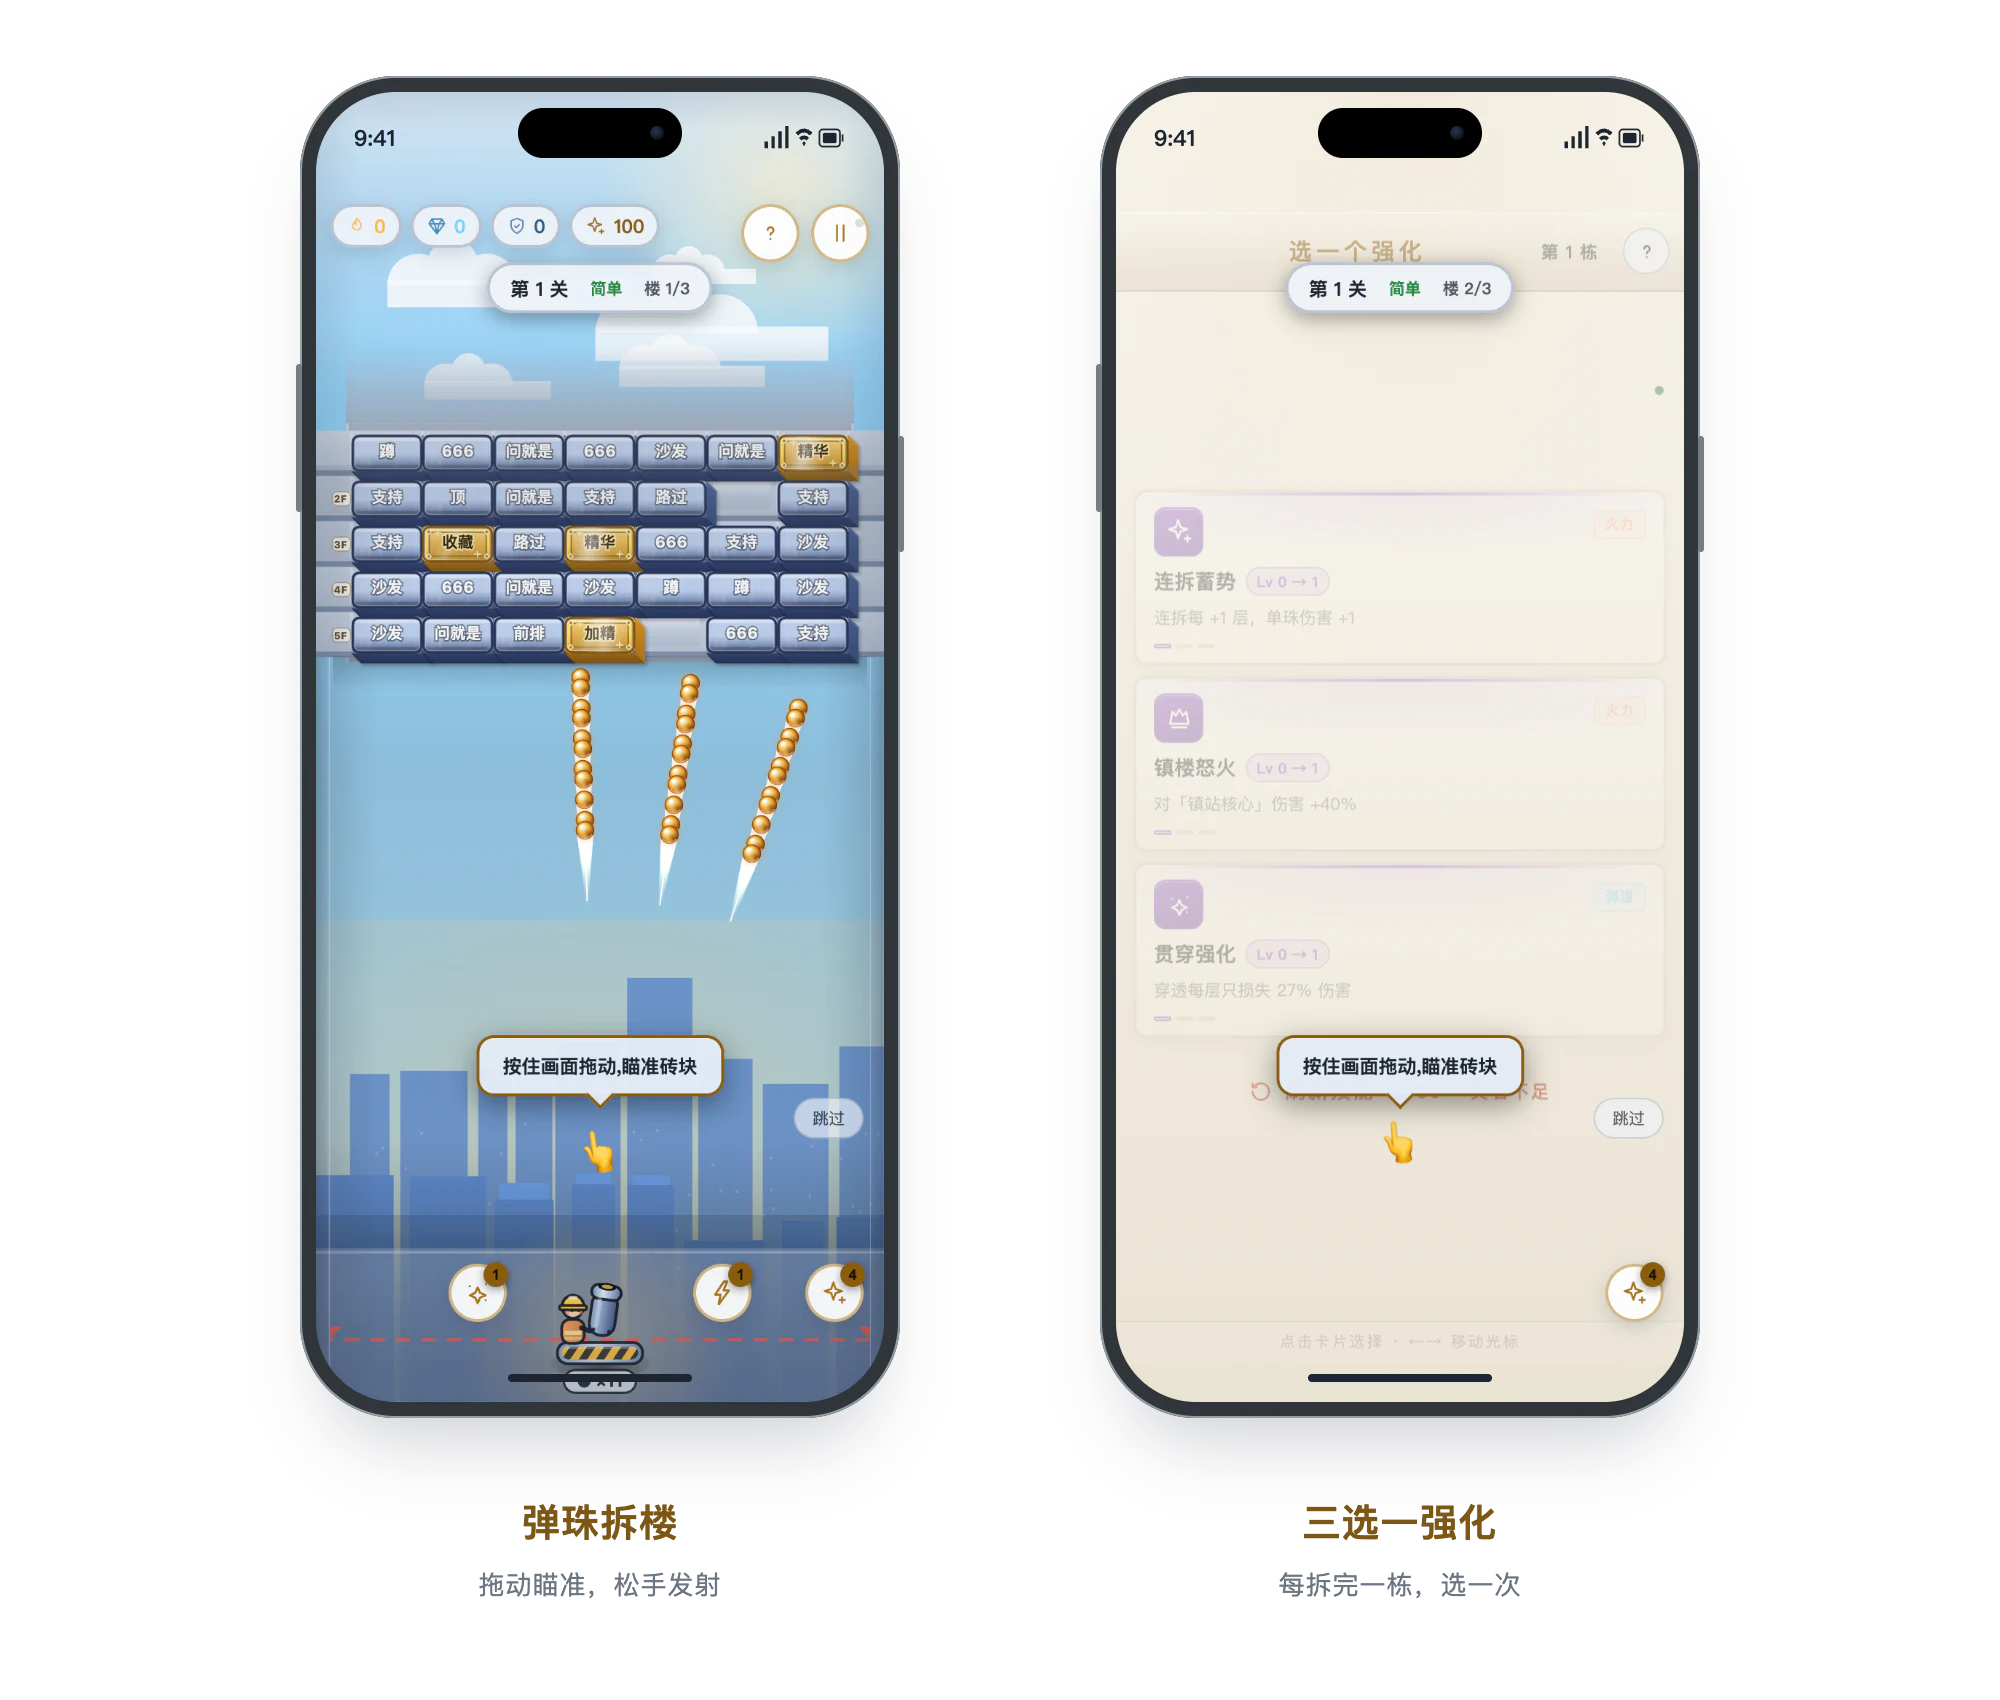
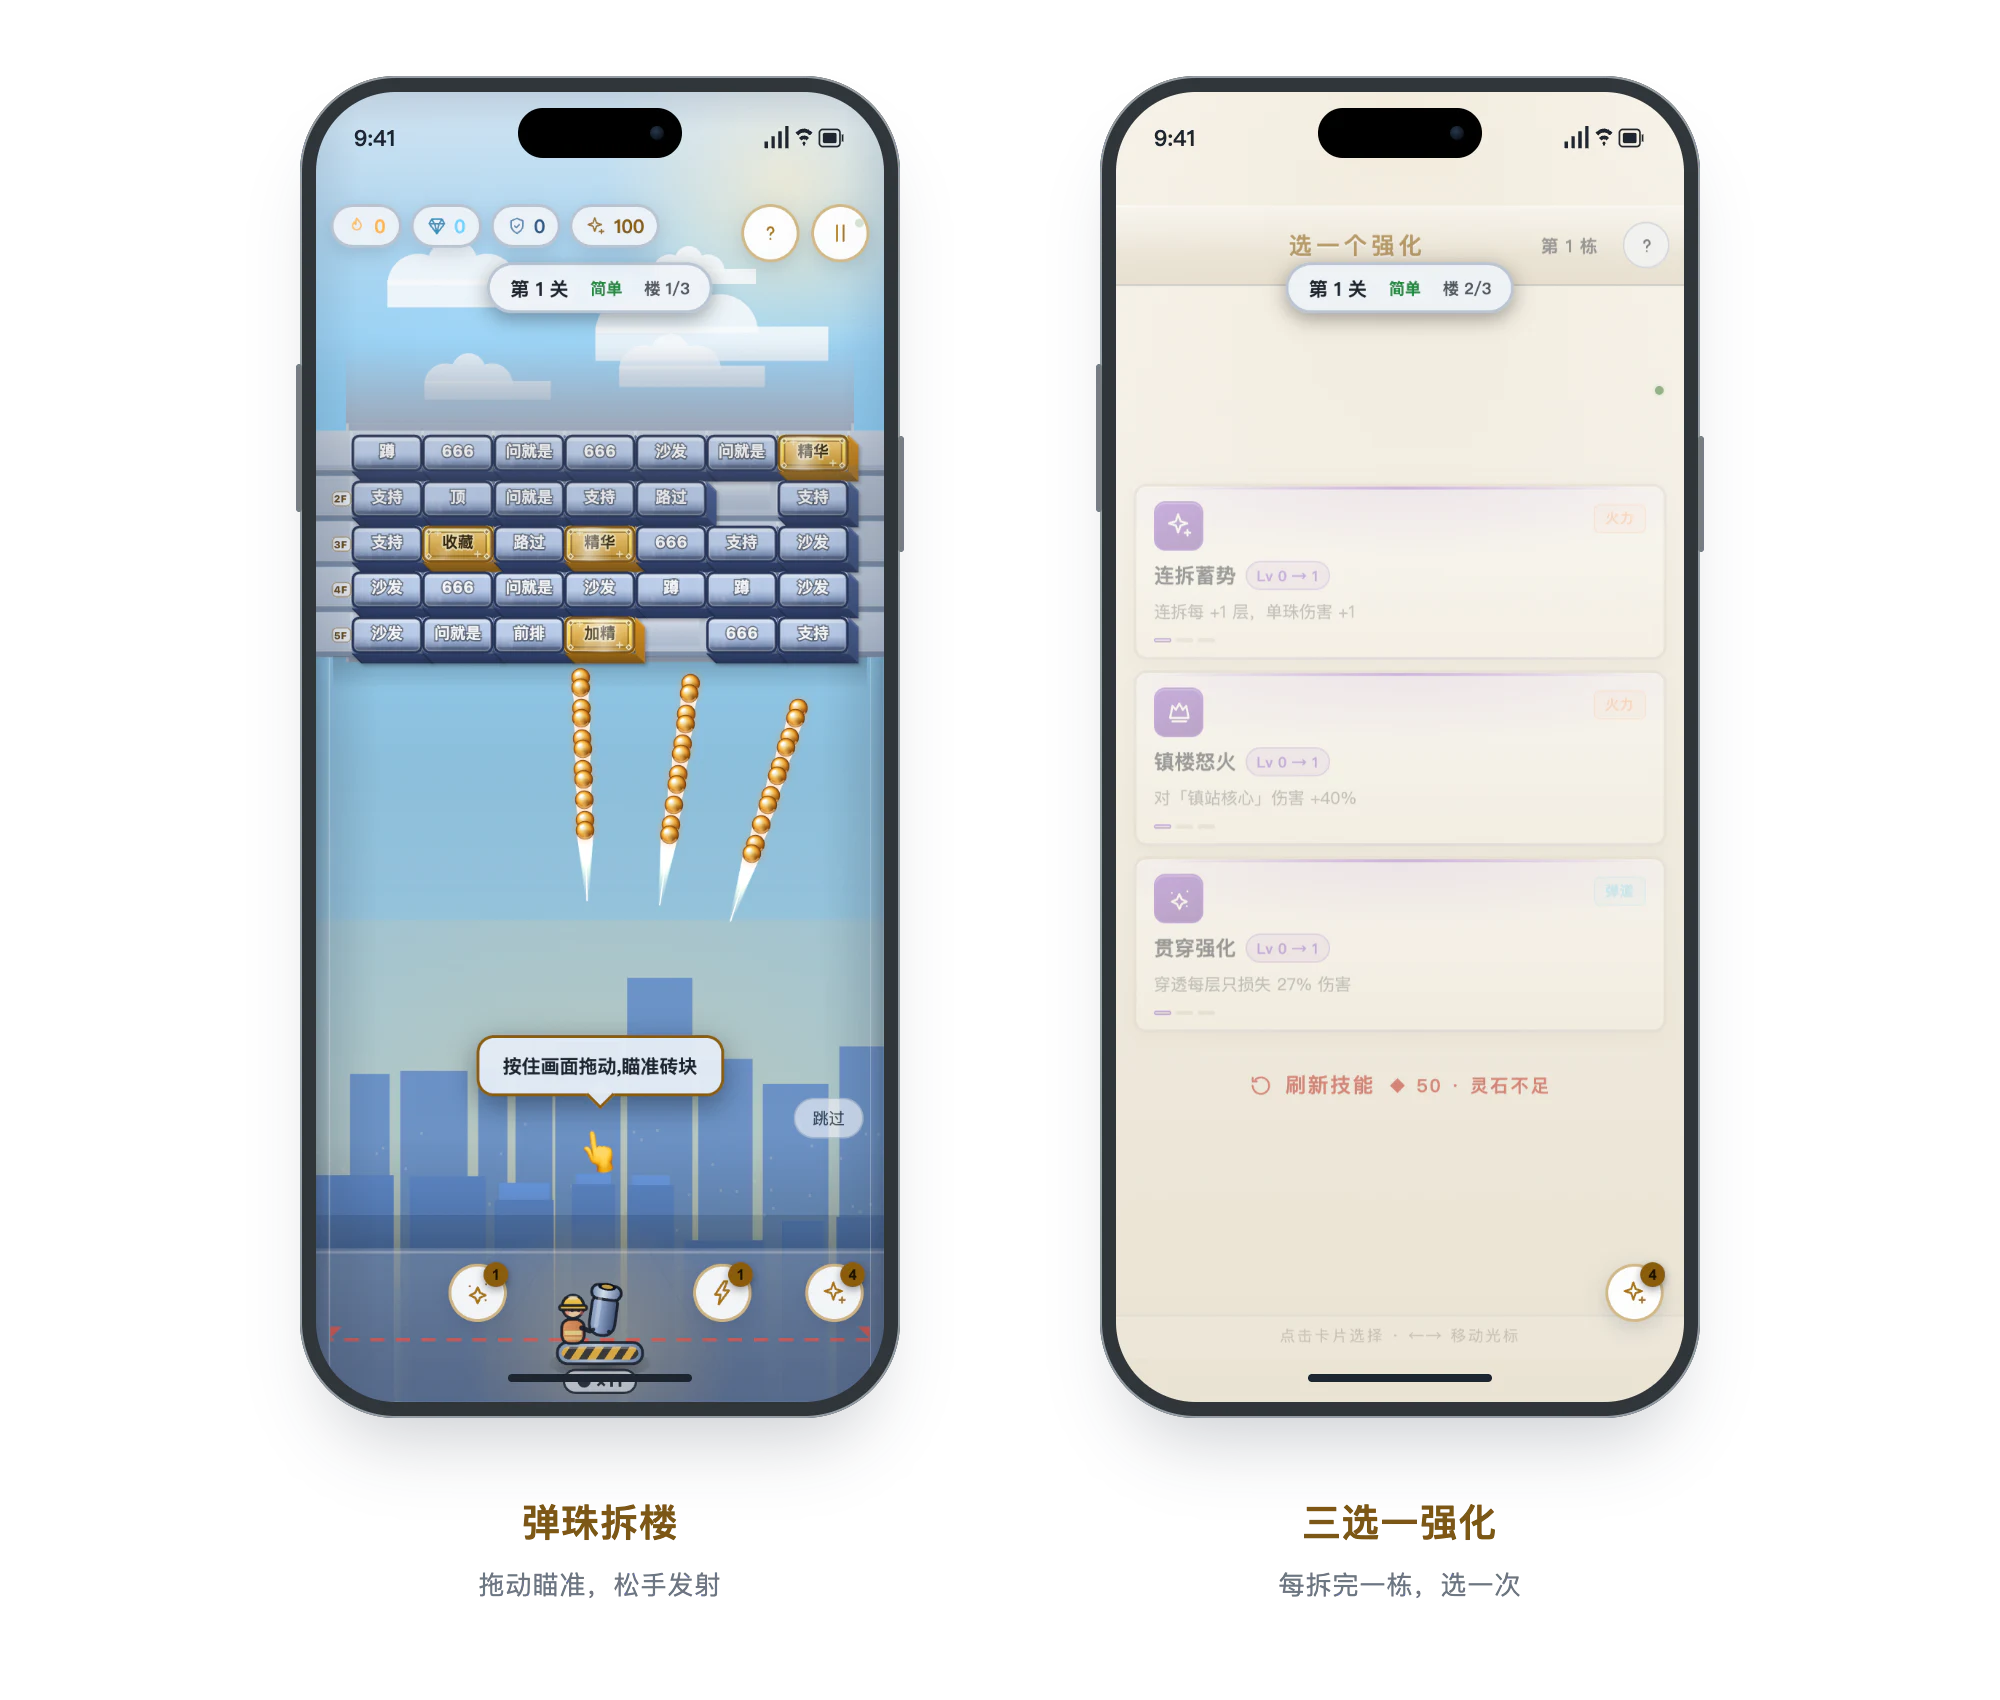
fix: 新手引导不再叠到三选一面板 + README 截图右屏收掉引导气泡
- 引导层此前只监听 pointer 事件:键盘玩家(空格发射)永远停在第一步,
  气泡挂满整局、叠到三选一面板上;补 keydown(Space/Enter) 推进步骤
- readme-assets:三选一截图前点跳过收掉引导层(左屏保留气泡展示引导特性)
- hero 明暗两版重生成

diff --git a/src/ui/tutorial.ts b/src/ui/tutorial.ts
@@ -43,6 +43,11 @@ export function createTutorial(app: HTMLElement, options: TutorialOptions): Tuto
   const onPointerUp = (): void => {
     if (step === 1) advance();
   };
+  // 键盘玩家(←→ + 空格)没有 pointer 事件,否则气泡会挂满整局、叠到三选一上
+  const onKeyDown = (event: KeyboardEvent): void => {
+    if (event.code !== "Space" && event.code !== "Enter") return;
+    if (step === 0 || step === 1) advance();
+  };
 
   function advance(): void {
     step += 1;
@@ -77,12 +82,14 @@ export function createTutorial(app: HTMLElement, options: TutorialOptions): Tuto
     if (disposed) return;
     disposed = true;
     window.removeEventListener("tower-cleared", onTowerCleared);
+    window.removeEventListener("keydown", onKeyDown);
     layer.remove();
     options.onFinish();
   }
 
   window.addEventListener("pointerdown", onPointerDown, { passive: true });
   window.addEventListener("pointerup", onPointerUp, { passive: true });
+  window.addEventListener("keydown", onKeyDown);
   app.append(layer);
 
   return {
